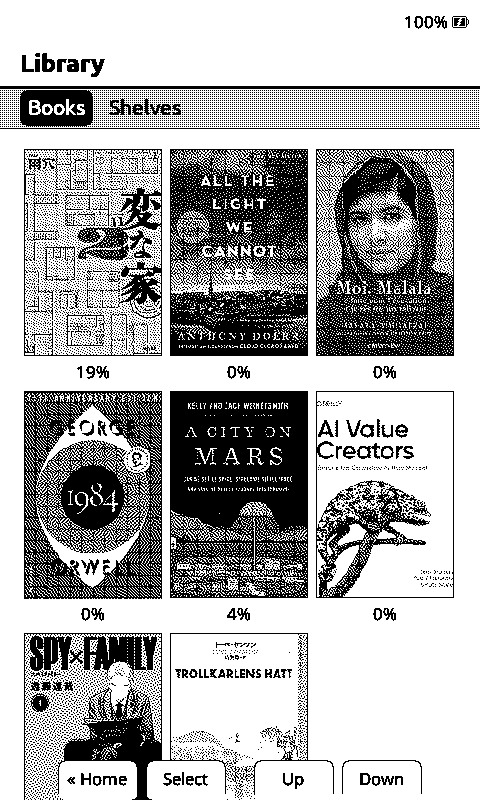
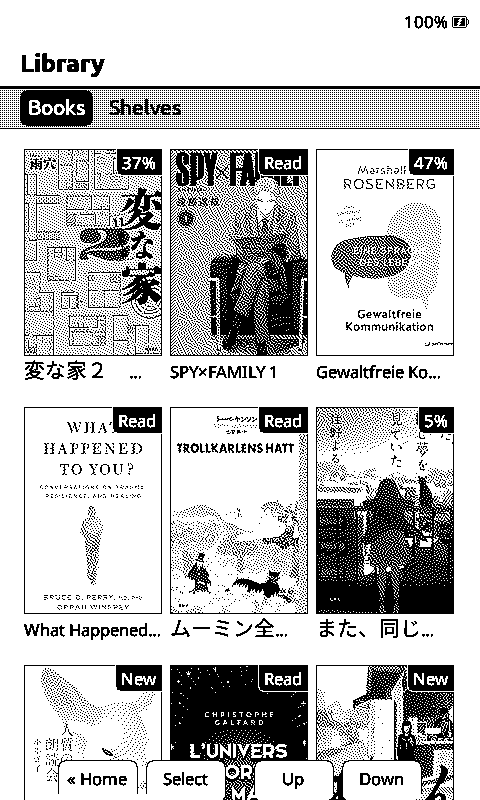
docs: point at the browser tools, tighten the README, refresh the Library shot
Matcha Reader Tools (https://eszter007.github.io/matcha-reader-tools/)
converts dictionaries, fonts and manga in the browser, so most readers
never need Python at all. It now leads the Setup section, with a pointer
in each place that previously offered only a script, and the tools/ ones
framed as the scriptable equivalent rather than the default path. The
note records what the site states about privacy: files stay local except
manga panels sent to Gemini under the user's own API key.

Also tightened the five sections that had grown into single-paragraph
walls -- localization, CJK fallback, manga intro, transparent sleep
screen, per-book settings. Facts are unchanged; they are split into
shorter paragraphs and the enumerations that only illustrated a point
(which menu items are translated, and so on) are gone.

New Library screenshot: the old one predates cover titles and the
progress badges, and showed percentages under the covers instead.

diff --git a/README.md b/README.md
@@ -69,19 +69,26 @@ Reading aids rendered above (horizontal) or beside (vertical) kanji, with positi
 
 ### Localization
 
-All UI chrome this fork adds — menu items and toggles (Word Lookup, Translate Page, Vertical Text, Furigana, Bookmarks/Toggle Bookmark, manga's Panels indicator), popups, and the bookmarks list screens (both EPUB and manga) — goes through the same `tr()`/i18n system as the rest of CrossPoint, so it follows the device's language setting. The same is true for the base CrossPoint UI (Library tabs, Insights, clock sync, firmware update, OPDS servers, keyboard hints, and everything else) — every `STR_*` key in `lib/I18n/translations/english.yaml` currently has a matching translation in all 26 other supported languages, with no English-fallback gaps. Translations were initially machine-translated for the languages that hadn't caught up yet — corrections are welcome via PR, same as any other string in `lib/I18n/translations/` (see [translators.md](docs/translators.md)).
+Everything this fork adds to the interface — menu items, toggles, popups, the bookmark screens — goes through the same `tr()` i18n system as the rest of CrossPoint and follows the device's language setting.
 
-Two features are intentionally **English-only regardless of device language**, since they're producing English *content*, not displaying translatable UI text:
-- **Dictionary Word Lookup** — definitions, part-of-speech, and grammar notes come from the underlying JMdict-based dictionary data, which is English-language by design.
-- **Page Translation** — the Gemini-powered translation always targets English (Japanese → English), both for EPUB "Translate Page" and manga's pre-extracted panel translations.
+Every `STR_*` key in `lib/I18n/translations/english.yaml` has a translation in all 26 other supported languages, with no English-fallback gaps. Languages that had fallen behind were machine-translated to close them; corrections are welcome via PR (see [translators.md](docs/translators.md)).
+
+Two features stay **English-only whatever the device language**, because they produce English *content* rather than display translatable UI:
+
+- **Word Lookup** — definitions and grammar notes come from JMdict-based data, which is English by design.
+- **Page Translation** — Gemini always targets English, for both EPUB pages and pre-extracted manga panels.
 
 ### CJK Fallback Font
 
-Non-Japanese-language books that contain occasional CJK characters (e.g. a stray Chinese loanword or Japanese proper noun) render using a curated built-in fallback font covering CJK punctuation, hiragana, katakana, fullwidth forms, and the 2,136 Jōyō kanji (常用漢字, Japan's standard list of common-use kanji) plus the 863 Jinmeiyō kanji (人名用漢字, name kanji that also appear regularly in fiction — 杖, 苺, 廻 …) — rather than the full ~21,000-character CJK Unified Ideographs block, which doesn't fit in the available flash budget alongside everything else. The fallback font is regular-weight only (no bold); `EpdFontFamily` falls back to regular for bold requests, which is expected for an occasional-use fallback. Japanese books rendered through the vertical-text engine (see above) use the full font selection path, not this fallback.
+A non-Japanese book with the occasional CJK character — a stray loanword, a proper noun — renders it from a curated built-in fallback font: CJK punctuation, kana, fullwidth forms, the 2,136 Jōyō kanji (常用漢字) and the 863 Jinmeiyō kanji (人名用漢字, name kanji that turn up regularly in fiction: 杖, 苺, 廻 …). The full ~21,000-character CJK block doesn't fit the flash budget alongside everything else.
+
+Regular weight only — bold requests fall back to regular, which is fine for occasional use. Japanese books go through the vertical-text engine and the full font selection path instead, not this fallback.
 
 ### Manga Panel Reader
 
-Read manga with real panel detection, dictionary lookup, and pre-extracted translations. A conversion tool (`tools/manga_convert/`) detects actual panel rectangles with a YOLO model trained on Manga109, asks Gemini what text appears in each panel (plus an English translation), and packs everything into a compact binary format the device reads natively. Page images are used directly — JPG, PNG, and BMP are all rendered without any pre-conversion. A **1-bit (black-and-white) BMP** renders especially fast: pure line art needs no 4-level gray refresh, so it paints in a single black-and-white pass instead of the usual gray sequence. The converter's **`--mono`** flag writes both pages and panel crops as 1-bit Floyd–Steinberg-dithered BMP, so page turns and panel-zoom both paint fast — ideal for line-art manga (screentone gradients become dither patterns, so it's less suited to heavily-toned art).
+Read manga with real panel detection, dictionary lookup, and pre-extracted translations. Conversion ([browser](https://eszter007.github.io/matcha-reader-tools/) or `tools/manga_convert/`) finds actual panel rectangles with a YOLO model trained on Manga109, asks Gemini what text each panel holds and how it translates, and packs it into a compact binary format the device reads natively.
+
+Page images are used as-is: JPG, PNG and BMP all render without pre-conversion. **1-bit BMP is the fastest** — pure line art needs no 4-level gray refresh, so it paints in a single black-and-white pass. The converter's **`--mono`** flag writes pages and panel crops that way, which suits line art; heavily screentoned art turns its gradients into dither patterns and looks better left in gray.
 
 - **Full-page view** — Displays the manga page scaled to screen with panel highlight rectangles. When the reading orientation is landscape, a page whose aspect doesn't match the screen rotates to fill it edge-to-edge instead of shrinking into a small centered box (same behavior panel-zoom already had).
 - **Panel-by-panel zoom** — Navigate panels in reading order with page turn buttons. Each panel is scaled to fill the screen, rotating to landscape when that fills more of the screen than portrait would. Stepping quickly through panels paints each in fast black-and-white; when you pause on one, it sharpens to full 4-level grayscale a moment later — so rapid navigation stays snappy while a panel you settle on still renders at full quality. (Mono `--mono` panels are already black-and-white, so they skip this and always paint in one pass.)
@@ -117,7 +124,9 @@ Read manga with real panel detection, dictionary lookup, and pre-extracted trans
 
 ### Transparent Sleep Screen
 
-A new **Transparent** option under Settings → Display → Sleep Screen overlays a wallpaper on the page you were reading, so the book peeks through underneath. Put the overlay images in a `transparent` folder inside your sleep-images folder (`/.sleep/transparent` or `/sleep/transparent`); one is picked at random on each sleep, avoiding recent repeats. PNGs use their real alpha channel — transparent pixels show the book, opaque pixels (including white) cover it. BMPs have no alpha channel, so their white pixels are the see-through areas instead. When sleep starts outside the reader (or no overlay image exists), it falls back to the regular custom sleep screen.
+**Settings → Display → Sleep Screen → Transparent** overlays a wallpaper on the page you were reading, so the book shows through underneath. Put the overlays in a `transparent` folder inside your sleep-images folder (`/.sleep/transparent` or `/sleep/transparent`); one is picked at random each time, avoiding recent repeats.
+
+PNGs use their real alpha channel: transparent pixels reveal the book, opaque ones (white included) cover it. BMPs have no alpha, so their white pixels become the see-through areas instead. Falling asleep outside the reader, or with no overlay available, uses the regular custom sleep screen.
 
 ### Library
 
@@ -158,7 +167,9 @@ The reader uses whatever font is selected in Settings (built-in Noto Serif/Sans 
 
 ### Per-Book Reader Settings
 
-Reading-relevant settings (font family, font size, line spacing, screen margin, book side margins, paragraph alignment, embedded style, hyphenation, focus reading, image rendering, orientation) are remembered **per book**. The global settings page (opened from the home menu) holds the defaults: a book you haven't opened yet starts with them. Once a book has been opened, its settings are pinned to that book — change the font size while reading a Japanese novel and your Latin-script books keep their own preferences. Settings edited while reading affect only the open book; the global defaults are restored when you leave it. (Vertical text and furigana were already per-book.) Applies to EPUBs; TXT/XTC use the global settings.
+Reading-relevant settings — font family and size, line spacing, screen and book side margins, paragraph alignment, embedded style, hyphenation, focus reading, image rendering, orientation — are remembered **per book**.
+
+The global settings page holds the defaults, which a book you haven't opened yet starts from. After that the book keeps its own: bump the font size in a Japanese novel and your Latin-script books are unaffected. Changes made while reading apply to that book alone, and the global defaults return when you leave it. (Vertical text and furigana were already per-book.) EPUBs only — TXT and XTC use the global settings.
 
 ### Book Side Margins
 
@@ -168,13 +179,20 @@ Some EPUBs stack their own CSS side margins across nested wrappers, producing a 
 
 ## Setup
 
+> **No Python needed.** [**Matcha Reader Tools**](https://eszter007.github.io/matcha-reader-tools/) does the
+> dictionary, font, and manga conversions in your browser and hands back a zip already laid out for the SD card.
+> Files stay on your device — the one exception is manga OCR, where panel images go to Gemini if you supply your
+> own API key. The `tools/` scripts below are the scriptable equivalent, for batch jobs and CI.
+> ([source](https://github.com/eszter007/matcha-reader-tools))
+
 ### Flash the Firmware
 
 Flash this fork's firmware to your Xteink X4 using the standard CrossPoint flashing process. See the [upstream documentation](https://github.com/crosspoint-reader/crosspoint-reader) for flashing instructions.
 
 ### Install Dictionaries
 
-The word lookup feature requires dictionary files on the SD card. Three dictionaries are supported:
+The word lookup feature requires dictionary files on the SD card. Three dictionaries are supported — the
+[browser tool](https://eszter007.github.io/matcha-reader-tools/) converts all three, or use the commands below.
 
 #### 1. Vocabulary Dictionary (required)
 
@@ -228,7 +246,9 @@ Cards set up before the rename keep working unchanged: the firmware falls back t
 
 ### Install Japanese Fonts (optional)
 
-For the best vertical text experience, install Japanese `.cpfont` font files on the SD card. Place them in `/.fonts/` organized by family:
+For the best vertical text experience, install Japanese `.cpfont` font files on the SD card. Any TTF/OTF can be
+converted with the [browser tool](https://eszter007.github.io/matcha-reader-tools/). Place them in `/.fonts/`
+organized by family:
 
 ```
 /.fonts/
@@ -324,7 +344,9 @@ This fork works with the [Crosspoint Emulator](https://github.com/eszter007/Cros
 
 ## Dictionary Converter
 
-The `tools/dict_convert/convert_jmdict.py` script converts dictionary sources to the binary format the device reads. Supported input formats:
+Same job as the [browser tool](https://eszter007.github.io/matcha-reader-tools/), as a script you can put in a
+pipeline. `tools/dict_convert/convert_jmdict.py` converts dictionary sources to the binary format the device
+reads. Supported input formats:
 
 | Format | Extension | Source |
 |--------|-----------|--------|
@@ -344,7 +366,8 @@ Output: binary `.idx` (sorted 40-byte records) + `.dat` (UTF-8 definitions) file
 
 ## Manga Conversion Tools
 
-The `tools/manga_convert/convert_manga.py` script prepares manga for the device. It detects real panel rectangles with a YOLO model trained on Manga109 ([leoxs22/manga-panel-detector-yolo26n](https://huggingface.co/leoxs22/manga-panel-detector-yolo26n)), then asks Gemini what text appears in each panel — and for an English translation of it — storing both directly in the panel data so "Translate Page" works instantly offline.
+Also available in the [browser](https://eszter007.github.io/matcha-reader-tools/), which needs no local Python or
+model download. The `tools/manga_convert/convert_manga.py` script prepares manga for the device. It detects real panel rectangles with a YOLO model trained on Manga109 ([leoxs22/manga-panel-detector-yolo26n](https://huggingface.co/leoxs22/manga-panel-detector-yolo26n)), then asks Gemini what text appears in each panel — and for an English translation of it — storing both directly in the panel data so "Translate Page" works instantly offline.
 
 ### Requirements
 
